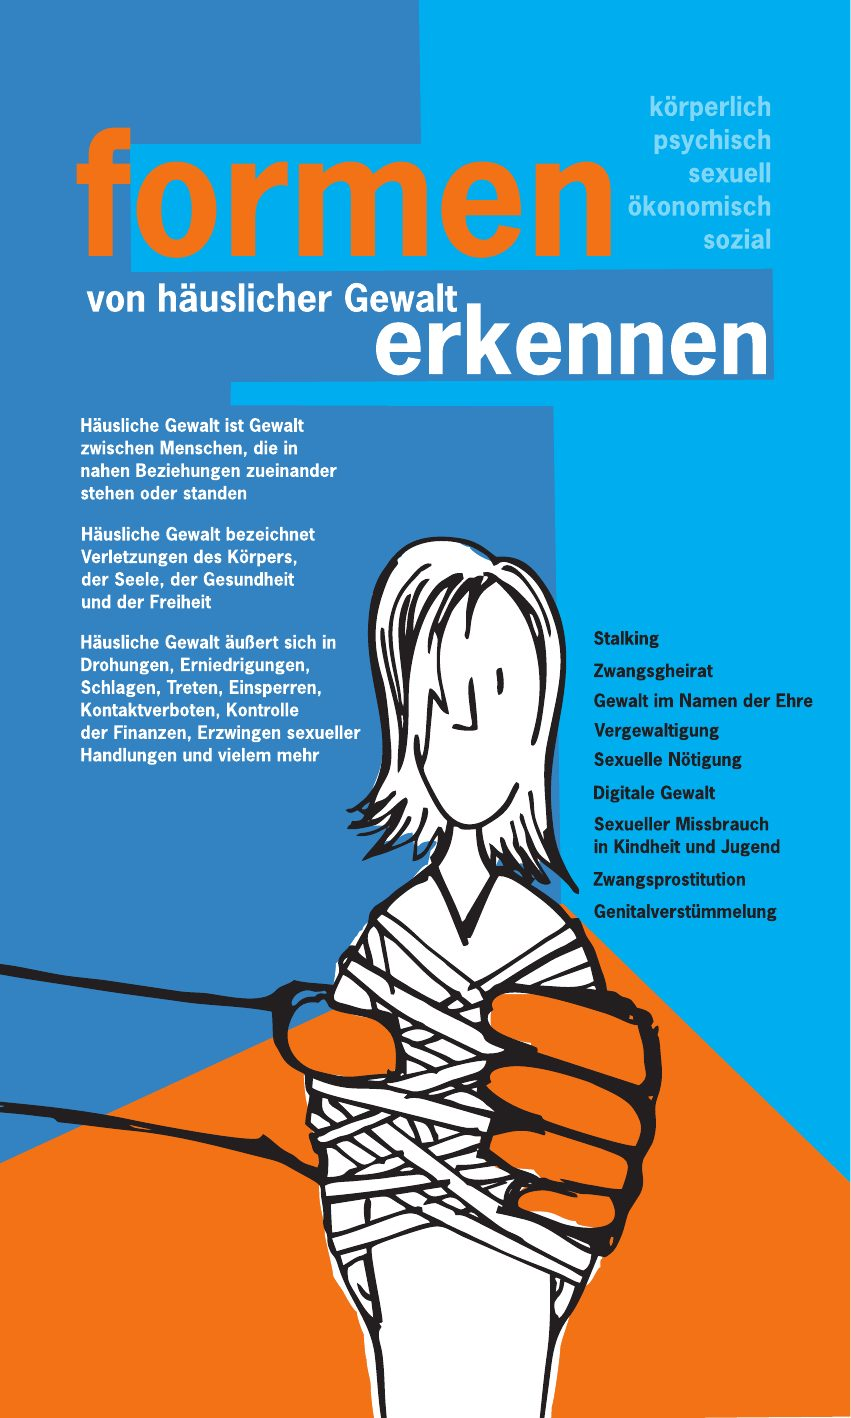
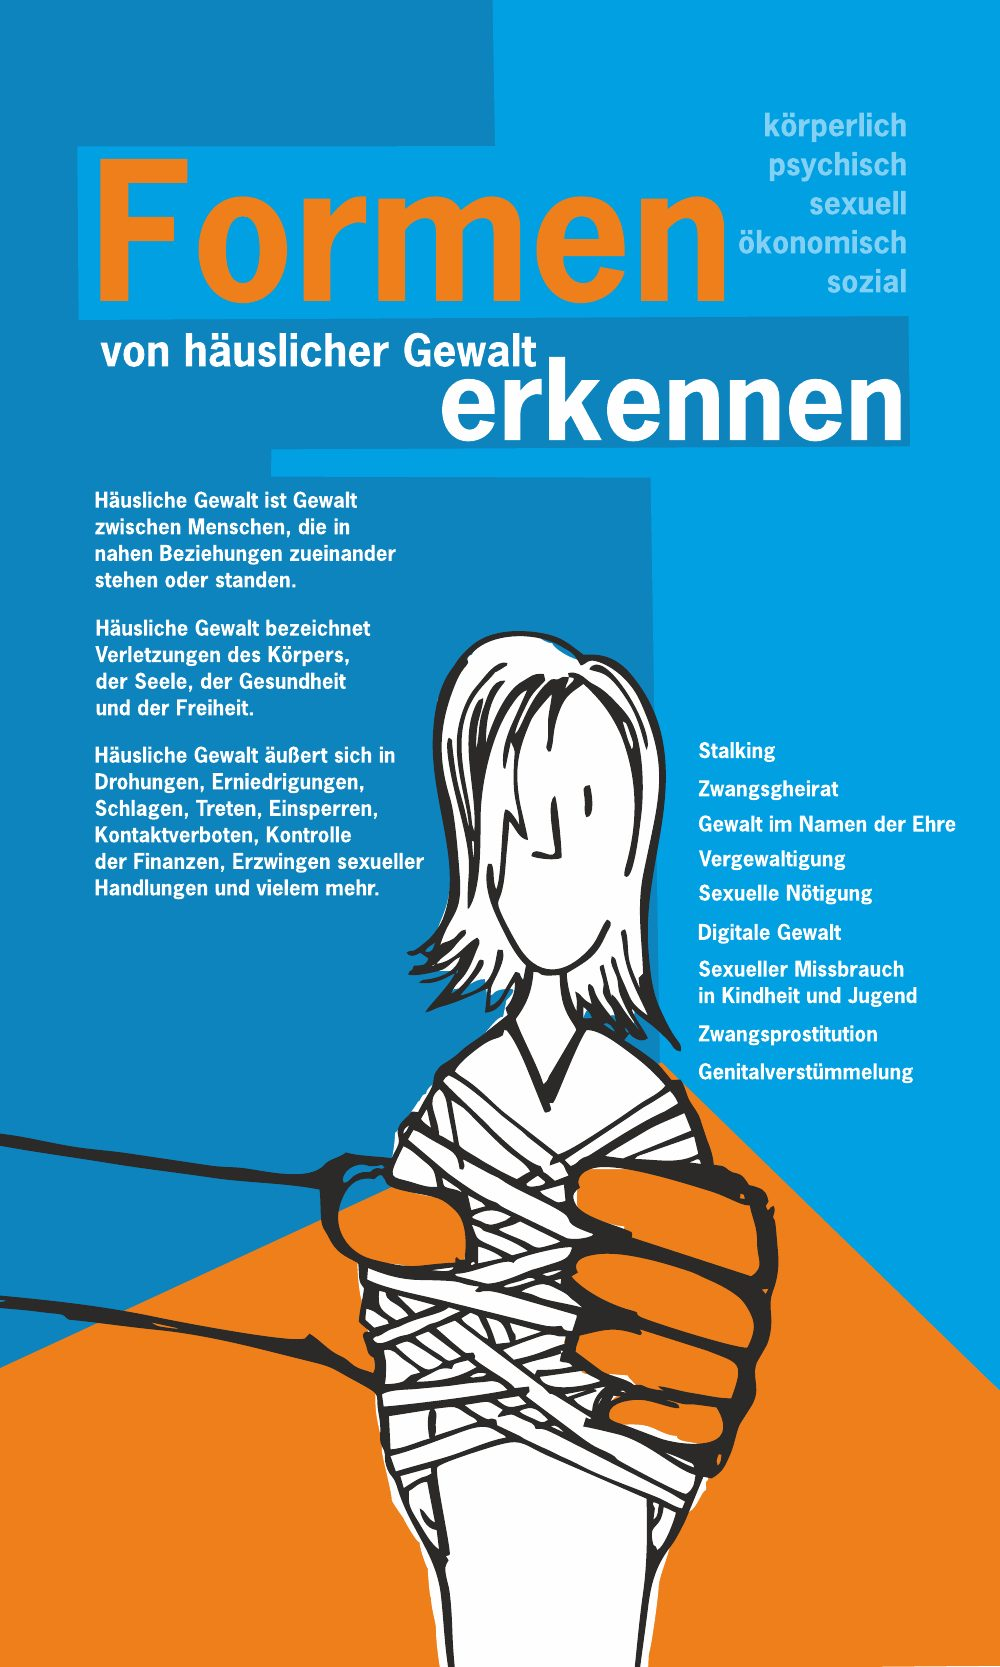
Lieferung des AG vom 11.10.: Arbeitskreis-Text, Gruppenfoto, Postfächer, Tafeln, Spurensicherung
- Arbeitskreis: Text des AG übernommen, Gruppenfoto (verkleinert, ohne Metadaten)
- Kontakt: zwei Postfächer (Hilfe: Frauenberatungsstelle, Informationen:
  Gleichstellungsstelle), Anliegen im Formular einem Postfach zugeordnet
- Frauenberatungsstelle: E-Mail frauenberatungsstelle@awo-hoexter.de
- Wanderausstellung: Tafeln aus der finalen Ausstellungsdatei 2022 neu gerendert
- Infos: Abschnitt Anonyme Spurensicherung mit Plakat und Ablauf (F-08)

diff --git a/website/src/app/arbeitskreis/page.tsx b/website/src/app/arbeitskreis/page.tsx
@@ -1,5 +1,7 @@
 import type { Metadata } from "next";
+import Image from "next/image";
 import band from "@/assets/illustrations/band-p13.jpg";
+import groupPhoto from "@/assets/photos/working-group.jpg";
 import { PageHeader } from "@/components/PageHeader";
 
 export const metadata: Metadata = {
@@ -7,7 +9,7 @@ export const metadata: Metadata = {
   description: "Seit 1997 setzt sich der Arbeitskreis gegen Gewalt an Frauen und Kindern im Kreis Höxter ein.",
 };
 
-// OFFEN: Mitgliederliste von der Altseite, vom AG aktualisieren lassen
+// OFFEN: Mitgliederliste von der Altseite. Der AG schickt nach dem Treffen am 13.10.2026 die aktuelle Liste in einheitlichem Format
 const members = [
   { name: "Anna Lütkefend", role: "Gleichstellungsbeauftragte des Kreises Höxter" },
   { name: "Nadine Nolte", role: "Gleichstellungsbeauftragte der Stadt Höxter" },
@@ -32,28 +34,85 @@ export default function WorkingGroupPage() {
   return (
     <>
       <PageHeader
-        title="Der Arbeitskreis"
+        title="Gemeinsam gegen Gewalt an Frauen und Kindern"
         band={band}
-        intro="Der Arbeitskreis „Gegen Gewalt an Frauen und Kindern im Kreis Höxter“ hat sich im Juni 1997 auf Initiative des Frauen- und Kinderschutzhauses gegründet, um dem öffentlichen Schweigen etwas entgegenzusetzen."
+        intro="Gewalt gegen Frauen und Kinder findet überall statt, auch im Kreis Höxter. Sie betrifft Personen aller kulturellen und sozialen Hintergründe."
       />
       <div className="wide stack-lg">
+        {/* Text vom AG, Lieferung 11.10.2026 (Z-01) */}
+        <section className="measure stack" aria-label="Über den Arbeitskreis">
+          <p>
+            Die Gewalt findet häufig im Verborgenen statt. Viel zu häufig bleibt sie unsichtbar. Genau hier setzt der
+            Arbeitskreis „Gegen Gewalt an Frauen und Kindern im Kreis Höxter“ an.
+          </p>
+          <p>
+            Auf Initiative des Frauen- und Kinderschutzhauses wurde der Arbeitskreis im Juni 1997 gegründet. Seitdem
+            arbeiten Expertinnen aus unterschiedlichen Einrichtungen und Institutionen gemeinsam daran, Gewalt sichtbar zu
+            machen, Ursachen zu diskutieren und Veränderungen anzustoßen.
+          </p>
+          <p>
+            Der Arbeitskreis beschäftigt sich mit unterschiedlichen Formen von Gewalt gegen Frauen und Kinder und nimmt
+            dabei auch die gesellschaftlichen Aspekte der strukturellen Gewalt gegen Frauen in den Blick. Gemeinsam werden
+            aktuelle Entwicklungen diskutiert, Erfahrungen ausgetauscht und konkrete Aktionen und Veranstaltungen auf den
+            Weg gebracht.
+          </p>
+        </section>
+
+        {/* OFFEN: Bildunterschrift mit Namen nur, wenn der AG sie liefert und alle Abgebildeten einverstanden sind (Z-08) */}
+        <figure className="photo">
+          <Image
+            src={groupPhoto}
+            alt="Gruppenfoto: rund zwanzig Frauen aus dem Arbeitskreis stehen auf einer Treppe vor einem Fachwerkhaus."
+            sizes="(min-width: 72rem) 72rem, 100vw"
+            placeholder="blur"
+          />
+          <figcaption>Der Arbeitskreis „Gegen Gewalt an Frauen und Kindern im Kreis Höxter“</figcaption>
+        </figure>
+
         <section className="measure stack" aria-labelledby="ziele">
           <h2 id="ziele">Was wir tun</h2>
-          <p>
-            Im Arbeitskreis arbeiten Fachfrauen aus Beratungsstellen, Behörden, Polizei und Ehrenamt zusammen. Wir
-            treffen uns alle zwei Monate, tauschen Erfahrungen aus und planen Aktionen und Veranstaltungen. Wir wollen:
-          </p>
+          <p>Die Vertreterinnen des Arbeitskreises kommen regelmäßig zusammen, um:</p>
           <ul className="list-bullets">
-            <li>Gewalt gegen Frauen und Kinder im Kreis Höxter wahrnehmen, ernst nehmen und sichtbar machen</li>
-            <li>Bürgerinnen und Bürger informieren und sensibilisieren, etwa mit Aktionen und Ausstellungen</li>
-            <li>betroffene Frauen und Kinder unterstützen</li>
-            <li>vorbeugen, zum Beispiel mit Fachveranstaltungen und Selbstbehauptungskursen</li>
-            <li>Lücken in Information und Beratung im Kreis aufdecken und schließen</li>
-            <li>notwendige politische Veränderungen anregen</li>
+            <li>
+              die verschiedenen Formen und Anzeichen von Gewalt gegen Frauen und Kinder im Kreis Höxter ernst zu nehmen
+              und sichtbar zu machen
+            </li>
+            <li>die Öffentlichkeit zu diversen Aspekten der Gewalt gegen Frauen und Kinder zu informieren und zu sensibilisieren</li>
+            <li>betroffene Frauen und Kinder zu unterstützen</li>
+            <li>Prävention zu stärken, beispielsweise durch Fachtage und andere Veranstaltungen</li>
+            <li>Beratungs- und Informationsdefizite im Kreis Höxter aufzudecken und deren Abbau zu unterstützen</li>
+            <li>notwendige politische Änderungen anzuregen.</li>
           </ul>
+        </section>
+
+        <section className="measure stack" aria-labelledby="sichtbar">
+          <h2 id="sichtbar">Gemeinsam sichtbar werden</h2>
           <p>
-            Wir betrachten Gewalt aus der Perspektive von Frauen und haben deshalb vor allem die Belange von Frauen und
-            Mädchen im Blick.
+            Gewalt ist keine Privatsache. Sie geht uns alle an. Deshalb ist Vernetzung ein zentraler Bestandteil unserer
+            Arbeit. Im Arbeitskreis kommen unterschiedliche Fachstellen und Institutionen zusammen, bündeln ihre
+            Erfahrungen und entwickeln gemeinsame Ideen. So entsteht ein Netzwerk, das nicht nur reagiert, sondern auch
+            präventiv arbeitet und neue Impulse setzt.
+          </p>
+          <p>
+            Ein besonderer Schwerpunkt liegt auf der Öffentlichkeitsarbeit: Wir wollen Wissen vermitteln, Aufmerksamkeit
+            für dieses wichtige Thema schaffen und dazu beitragen, dass Betroffene Unterstützung finden, ohne Angst, Scham
+            oder Vorurteile.
+          </p>
+        </section>
+
+        <section className="measure stack" aria-labelledby="austausch">
+          <h2 id="austausch">Im Austausch bleiben</h2>
+          <p>
+            Der Arbeitskreis trifft sich regelmäßig alle zwei Monate. Wir planen Veranstaltungen und Aktionen, besprechen
+            aber auch aktuelle Probleme, fachliche Fragen oder akute Notfälle.
+          </p>
+          <p>
+            Der Arbeitskreis arbeitet aus der Perspektive der betroffenen Frauen und richtet seinen Blick deshalb besonders
+            auf die Belange und Lebensrealitäten von Frauen und Mädchen.
+          </p>
+          <p className="lead">
+            Seit 1997 gilt dabei: Wir schauen hin, wir vernetzen uns und setzen uns gemeinsam dafür ein, Gewalt gegen
+            Frauen und Kinder im Kreis Höxter in all ihren Formen entgegenzuwirken.
           </p>
         </section>
 

diff --git a/website/src/app/infos/page.tsx b/website/src/app/infos/page.tsx
@@ -1,6 +1,9 @@
 import type { Metadata } from "next";
+import Image from "next/image";
+import poster from "@/assets/campaigns/anonymous-evidence-collection-poster.jpg";
 import band from "@/assets/illustrations/band-p12.jpg";
 import { PageHeader } from "@/components/PageHeader";
+import { PhoneLink } from "@/components/PhoneLink";
 
 export const metadata: Metadata = {
   title: "Infos und Dokumente",
@@ -65,6 +68,63 @@ export default function InfoPage() {
         intro="Die Broschüre des Arbeitskreises, Flyer zum Mitnehmen und weiterführende Informationen."
       />
       <div className="wide stack-lg">
+        {/* Kampagne Anonyme Spurensicherung (F-08), Inhalt nach Flyer und Plakat 2017 vom AG.
+            OFFEN: Flyer und Plakat werden laut AG überarbeitet, dann Bild, Text und Download austauschen */}
+        <section className="campaign" aria-labelledby="spurensicherung">
+          <div className="stack">
+            <h2 id="spurensicherung">Sexuelle Gewalt? Lassen Sie Spuren sichern.</h2>
+            <p className="lead">Ob Sie eine Anzeige erstatten wollen, können Sie später überlegen.</p>
+            <p>
+              Im St. Ansgar Krankenhaus in Höxter können Sie Spuren einer Gewalttat rund um die Uhr sichern lassen,
+              auf Ihren Wunsch anonym, also ohne die Polizei. Die Untersuchung ist kostenlos und vertraulich. Sie können
+              eine Person Ihres Vertrauens mitnehmen.
+            </p>
+            <ol className="list-steps">
+              <li>
+                <span>
+                  Gehen Sie so schnell wie möglich ins Krankenhaus, am besten innerhalb von 24 Stunden. Wenn Sie
+                  K.-o.-Tropfen vermuten, ist Eile besonders wichtig: Sie lassen sich nur etwa 12 Stunden nachweisen.
+                </span>
+              </li>
+              <li>
+                <span>
+                  Waschen oder duschen Sie sich vorher nicht, auch wenn es schwerfällt. Wechseln Sie Ihre Kleidung
+                  möglichst nicht und bringen Sie sie auf jeden Fall mit.
+                </span>
+              </li>
+              <li>
+                <span>
+                  Melden Sie sich an der Pforte, fragen Sie nach der gynäkologischen Ambulanz und sagen Sie, dass Sie eine
+                  anonyme Spurensicherung möchten.
+                </span>
+              </li>
+            </ol>
+            <p>
+              Die Spuren werden unter einer Chiffrenummer zehn Jahre in der Rechtsmedizin aufbewahrt. Entscheiden Sie
+              sich in dieser Zeit für eine Anzeige, kann die Polizei darauf zurückgreifen. Sonst werden sie vernichtet.
+            </p>
+            <p>
+              <strong>Klinikum Weser-Egge, St. Ansgar Krankenhaus Höxter</strong>
+              <br />
+              Gynäkologische Ambulanz, Brenkhäuser Straße 71, 37671 Höxter
+              <br />
+              Telefon <PhoneLink number="05271 660" />
+            </p>
+            <p>
+              <a href="/downloads/flyer-lass-spuren-sichern-2017.pdf" download>
+                Flyer „Lass Spuren sichern“ herunterladen
+              </a>{" "}
+              <span className="small muted">(PDF, 2,7 MB)</span>
+            </p>
+          </div>
+          <Image
+            src={poster}
+            alt="Plakat „Sexuelle Gewalt? Lass Spuren sichern. Jetzt. Tu’s für dich.“: Beine einer Frau, die barfuß nachts über eine Straße geht."
+            sizes="(min-width: 64em) 22rem, 100vw"
+            className="campaign__poster"
+          />
+        </section>
+
         <section aria-labelledby="downloads">
           <h2 id="downloads" style={{ marginBlockEnd: "var(--space-4)" }}>
             Zum Herunterladen

diff --git a/website/src/app/kontakt/page.tsx b/website/src/app/kontakt/page.tsx
@@ -2,6 +2,7 @@ import type { Metadata } from "next";
 import { ContactForm } from "@/components/ContactForm";
 import { PageHeader } from "@/components/PageHeader";
 import { PhoneLink } from "@/components/PhoneLink";
+import { mailboxes } from "@/content/contact";
 
 export const metadata: Metadata = {
   title: "Kontakt",
@@ -37,9 +38,25 @@ export default function ContactPage() {
           </p>
           <p>
             Telefon <PhoneLink number="05271 9659904" />
-            <br />
-            E-Mail <a href="mailto:gleichstellung@kreis-hoexter.de">gleichstellung@kreis-hoexter.de</a>
           </p>
+        </section>
+
+        <section className="measure stack" aria-labelledby="e-mail">
+          <h2 id="e-mail">E-Mail</h2>
+          <dl className="facts">
+            <dt>{mailboxes.help.label}</dt>
+            <dd>
+              <a href={`mailto:${mailboxes.help.email}`}>{mailboxes.help.email}</a>
+              <br />
+              <span className="small muted">Frauenberatungsstelle der AWO für den Kreis Höxter</span>
+            </dd>
+            <dt>{mailboxes.information.label}</dt>
+            <dd>
+              <a href={`mailto:${mailboxes.information.email}`}>{mailboxes.information.email}</a>
+              <br />
+              <span className="small muted">Gleichstellungsstelle des Kreises Höxter</span>
+            </dd>
+          </dl>
         </section>
 
         <section className="stack" aria-labelledby="formular">

diff --git a/website/src/components/ContactForm.tsx b/website/src/components/ContactForm.tsx
@@ -1,15 +1,10 @@
 "use client";
 
 import { useState } from "react";
-
-const concerns = [
-  "Ich brauche Hilfe für mich",
-  "Ich mache mir Sorgen um eine andere Person",
-  "Ich habe eine Frage an den Arbeitskreis",
-  "Etwas anderes",
-];
+import { concerns } from "@/content/contact";
 
 // Kontaktanfrage (F-04) als Entwurf: Oberfläche vollständig, Versand noch nicht angebunden.
+// Das Anliegen bestimmt das Postfach (siehe content/contact.ts).
 // OFFEN: Zustellweg ohne Speicherung klären (ADR-0003)
 export function ContactForm() {
   const [submitted, setSubmitted] = useState(false);
@@ -38,9 +33,9 @@ export function ContactForm() {
         <fieldset>
           <legend>Worum geht es?</legend>
           {concerns.map((concern, index) => (
-            <label className="radio" key={concern}>
-              <input type="radio" name="concern" value={concern} defaultChecked={index === 0} />
-              {concern}
+            <label className="radio" key={concern.label}>
+              <input type="radio" name="concern" value={concern.label} defaultChecked={index === 0} />
+              {concern.label}
             </label>
           ))}
         </fieldset>

diff --git a/website/src/content/contact.ts b/website/src/content/contact.ts
@@ -1,0 +1,27 @@
+// Postfächer und Anliegen der Kontaktanfrage (F-04), Angaben vom AG am 11.10.2026 (Z-09, teilweise).
+// OFFEN: Anliegen-Kategorien vom AG bestätigen lassen
+
+export type Mailbox = { id: "help" | "information"; label: string; email: string };
+
+export const mailboxes = {
+  /** Wer aktiv Hilfe sucht */
+  help: {
+    id: "help",
+    label: "Sie suchen Hilfe",
+    email: "frauenberatungsstelle@awo-hoexter.de",
+  },
+  /** Wer Informationen braucht */
+  information: {
+    id: "information",
+    label: "Sie möchten sich informieren",
+    email: "gleichstellung@kreis-hoexter.de",
+  },
+} satisfies Record<Mailbox["id"], Mailbox>;
+
+/** Anliegen im Kontaktformular und das Postfach, an das die Kontaktanfrage zugestellt wird */
+export const concerns: { label: string; mailbox: Mailbox["id"] }[] = [
+  { label: "Ich brauche Hilfe für mich", mailbox: "help" },
+  { label: "Ich mache mir Sorgen um eine andere Person", mailbox: "help" },
+  { label: "Ich habe eine Frage an den Arbeitskreis", mailbox: "information" },
+  { label: "Etwas anderes", mailbox: "information" },
+];

diff --git a/website/src/app/globals.css b/website/src/app/globals.css
@@ -1208,3 +1208,41 @@ a:hover {
     grid-column: 1 / -1;
   }
 }
+
+/* ------------------------------------------------------------------
+   Fotos
+   ------------------------------------------------------------------ */
+.photo img {
+  width: 100%;
+  height: auto;
+  border-radius: var(--radius-control);
+}
+
+.photo figcaption {
+  font-size: var(--fs-sm);
+  color: var(--c-ink-muted);
+  margin-block-start: var(--space-2);
+}
+
+/* ------------------------------------------------------------------
+   Kampagne
+   ------------------------------------------------------------------ */
+.campaign {
+  display: grid;
+  gap: var(--space-6);
+  max-width: var(--measure);
+}
+
+.campaign__poster {
+  width: 100%;
+  max-width: 22rem;
+  height: auto;
+}
+
+@media (min-width: 64em) {
+  .campaign {
+    max-width: none;
+    grid-template-columns: minmax(0, var(--measure)) 22rem;
+    align-items: start;
+  }
+}

diff --git a/website/src/content/support-services.ts b/website/src/content/support-services.ts
@@ -58,7 +58,7 @@ const counselling: SupportService = {
     "AWO Beratungsstellen, Caspar-Heinrich-Straße 7, 33014 Bad Driburg",
     "AWO Familienstützpunkt, Pyrmonter Straße 8, 32839 Steinheim",
   ],
-  email: "fbs@awo-hoexter.de",
+  email: "frauenberatungsstelle@awo-hoexter.de", // vom AG bestätigt 11.10.2026
   website: {
     url: "https://awo-hx.de/einrichtungen/beratungsstellen/frauenberatung/",
     label: "awo-hx.de",

diff --git a/website/src/components/SiteFooter.tsx b/website/src/components/SiteFooter.tsx
@@ -57,7 +57,7 @@ export function SiteFooter() {
             />
           </div>
           <p className="draft-note">
-            Entwurf, Stand 27.09.2026. Inhalte und Gestaltung sind noch nicht freigegeben. Illustrationen: fien-design,
+            Entwurf, Stand 11.10.2026. Inhalte und Gestaltung sind noch nicht freigegeben. Illustrationen: fien-design,
             Höxter.
           </p>
         </div>
